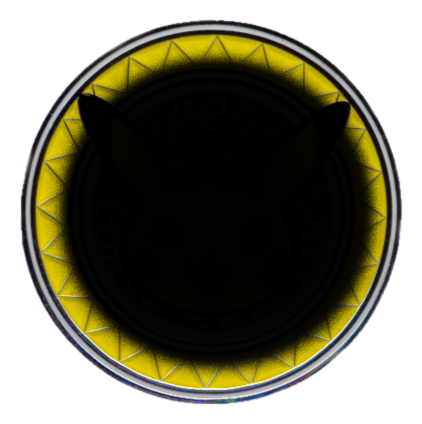
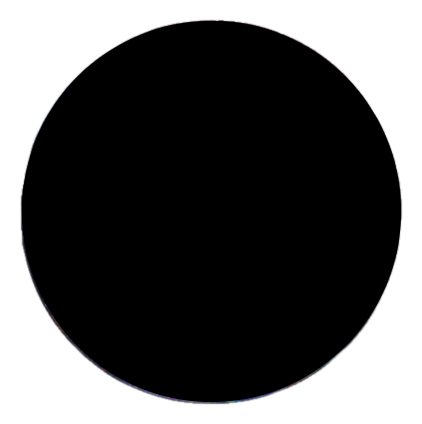
01.09.2022 #1

Changed region(s): [[0.0308, 0.0307, 0.955, 0.9505]]

diff --git a/Game1.cs b/Game1.cs
@@ -98,6 +98,7 @@ namespace PokemonTCG
             // Die Münze mit Vorder- und Rückseite
             Münze.Lt2d_münzen.Add(Content.Load<Texture2D>("Coin Kopf"));
             Münze.Lt2d_münzen.Add(Content.Load<Texture2D>("Coin Nicht-Kopf"));
+            Münze.T2D_brettKlein = Content.Load<Texture2D>("Brett_klein");
 
 
             // Die einzelnen Kartenslots, die auf dem Spielfeld platziert sind
@@ -143,7 +144,6 @@ namespace PokemonTCG
 
 
         //###########################################################
-
         public void Maus_Update()
         {
 
@@ -179,7 +179,8 @@ namespace PokemonTCG
 
             if (Münze.münzwurf == true)
             {
-                spriteBatch.Draw(Münze.Lt2d_münzen[Münze.münzeSeite], new Vector2(0, 0), Color.White);
+                spriteBatch.Draw(Münze.T2D_brettKlein, new Rectangle((int)(Münze.x * D_skalierung), (int)(Münze.y * D_skalierung), (int)(Münze.w * D_skalierung), (int)(Münze.h * D_skalierung)), Color.White);
+                spriteBatch.Draw(Münze.Lt2d_münzen[Münze.münzeSeite], new Rectangle((int)(Münze.x * D_skalierung), (int)(Münze.y * D_skalierung), (int)(Münze.w * D_skalierung), (int)(Münze.h * D_skalierung)), Color.White);
             }
 
 

diff --git a/Münze.cs b/Münze.cs
@@ -13,11 +13,19 @@ namespace PokemonTCG
     {
 
         public static List<Texture2D> Lt2d_münzen = new List<Texture2D>();
+        public static Texture2D T2D_brettKlein;
+        public static SpriteBatch spritebatch;
+
         public static int münzeSeite = 0;
         public static int münzeErgebnis;
         public static int timer = 0;
         public static bool münzwurf = false;
-        public static SpriteBatch spritebatch;
+
+        public static int x = 1530;
+        public static int y = 200;
+        public static int w = 350;
+        public static int h = 350;
+
 
 
         public static int Münzwurf()
